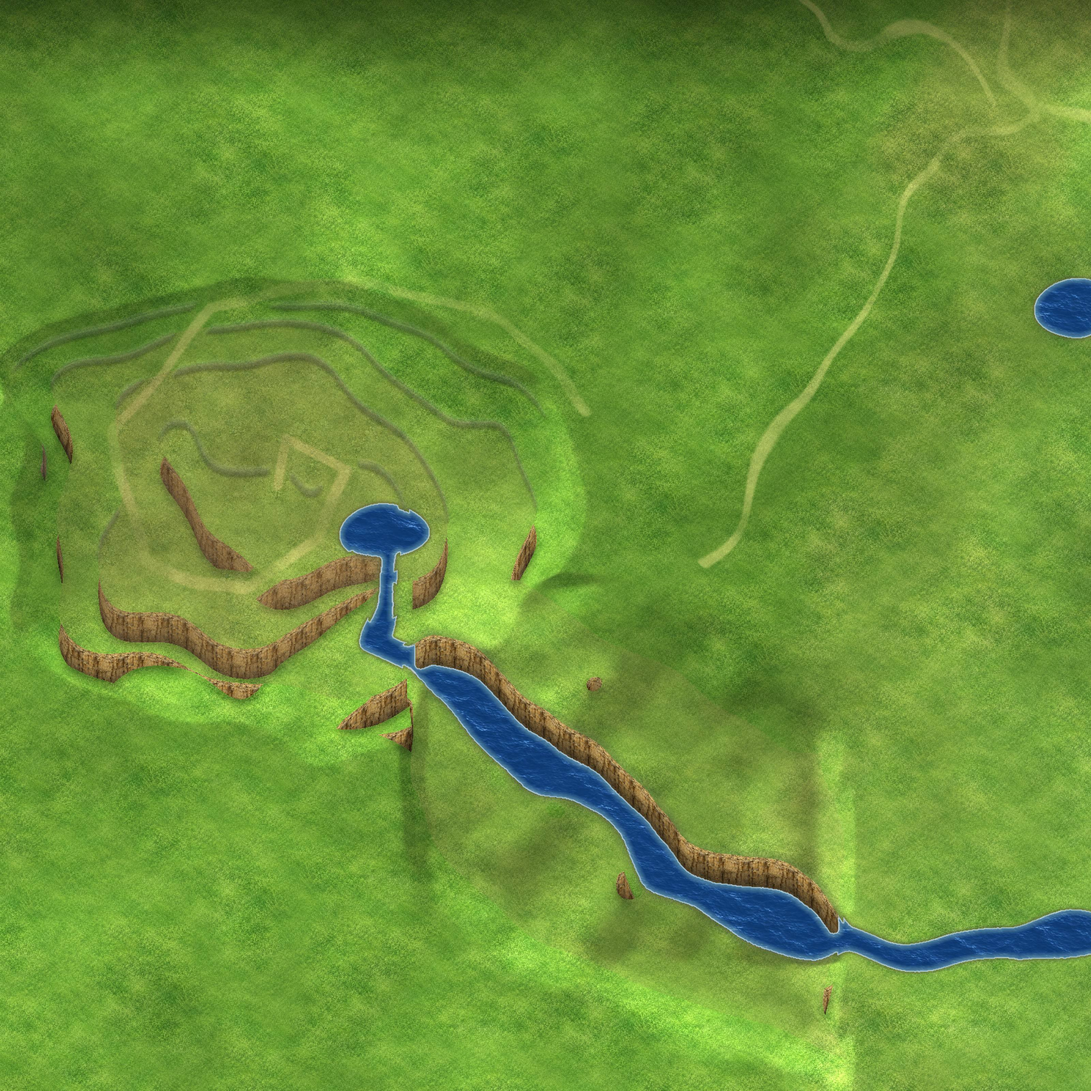
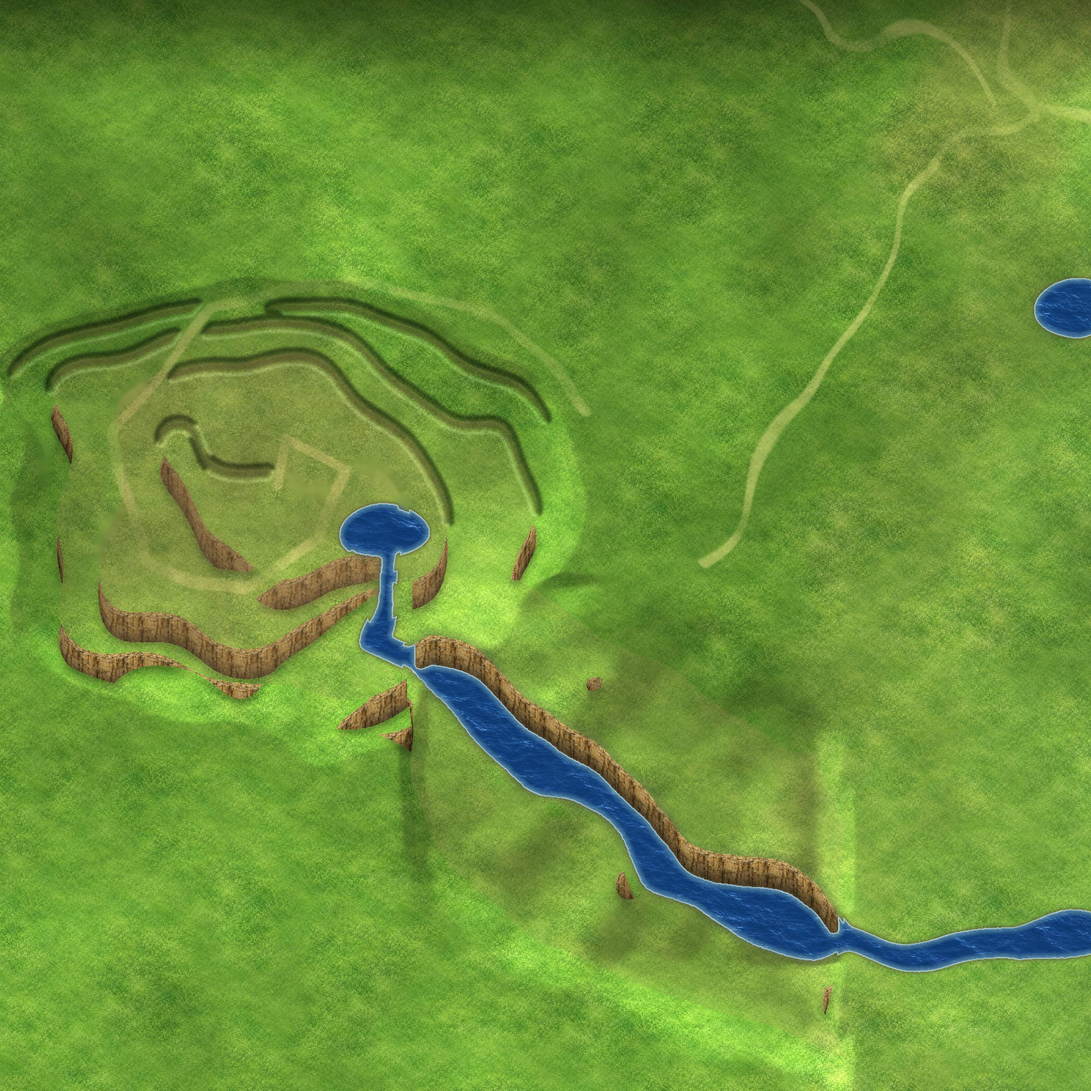
山：长台地边恢复挡路并画成明显的土坡（外侧阴影、上沿亮边），短台地线删除并抹掉
Claude-Session: https://claude.ai/code/session_011WrGna6yNwTfpmyp4CxMHs

diff --git a/tools/rebuild_nature.py b/tools/rebuild_nature.py
@@ -25,12 +25,29 @@ yy_,xx_=np.mgrid[0:H,0:W]
 mtr=rockc&(xx_<850)&(yy_<1100)&(yy_>300)
 mount=cv2.morphologyEx(dil(mtr,25).astype(np.uint8),cv2.MORPH_CLOSE,disk(60))
 inv=(1-mount).astype(np.uint8); cv2.floodFill(inv,None,(W-1,H-1),2); mount=(mount>0)|(inv==1)   # 西边的山（填满内部）
-back=np.zeros_like(rockc)                               # 山的背面：画面上没有崖壁的台地边 → 改成能走的缓坡
+back=np.zeros_like(rockc); ridge=np.zeros_like(rockc)                               # 山的背面：画面上没有崖壁的台地边 → 改成能走的缓坡
 n,lab,st,_=cv2.connectedComponentsWithStats(mtr.astype(np.uint8))
 for i in range(1,n):
     m=lab==i; px=g[m]
-    if (px[:,0]-px[:,1]).mean()<0: back|=m
-print('山背面台地边',back.sum())
+    if (px[:,0]-px[:,1]).mean()<0:
+        if st[i][2]>=150: ridge|=m            # 长的台地边：有高低差，挡路，画清楚
+        else: back|=m                         # 短的：删掉（可走，并抹掉地面上的线）
+print('删掉的短台地线',back.sum(),'保留的高低差',ridge.sum())
+# 抹掉短台地线：在高清底图上局部修补
+Gs=G.copy()
+n2,lab2,st2,_=cv2.connectedComponentsWithStats(back.astype(np.uint8))
+for i in range(1,n2):
+    x_,y_,w_,h_,_=st2[i]; pad=20; X0,Y0=max(0,x_-pad),max(0,y_-pad); X1,Y1=min(W,x_+w_+pad),min(H,y_+h_+pad)
+    mk=cv2.resize(dil(lab2[Y0:Y1,X0:X1]==i,7).astype(np.uint8),((X1-X0)*HD,(Y1-Y0)*HD),interpolation=cv2.INTER_NEAREST)
+    G[Y0*HD:Y1*HD,X0*HD:X1*HD]=cv2.inpaint(G[Y0*HD:Y1*HD,X0*HD:X1*HD],mk,9,cv2.INPAINT_TELEA)
+del Gs
+# 高低差：外侧（低处）一条阴影，内侧上沿亮边
+cx_,cy_=np.nonzero(mtr)[1].mean(),np.nonzero(mtr)[0].mean()
+rd=np.hypot(xx_-cx_,yy_-cy_).astype(np.float32)
+rdil=dil(ridge,8); rin=blur(ridge,1.5)
+rmean=cv2.blur((rd*ridge).astype(np.float32),(31,31))/np.maximum(cv2.blur(ridge.astype(np.float32),(31,31)),1e-3)
+ridge_lo=blur(rdil&~ridge&(rd>rmean),2.0); ridge_hi=blur(rdil&~ridge&(rd<rmean)&~dil(ridge,4),1.5)
+
 # ---------- 新水域 ----------
 watc=cv2.morphologyEx(wat0.astype(np.uint8),cv2.MORPH_CLOSE,disk(7)).astype(bool)   # 把桥面那条缝补上
 land_ok=(C0==0)&~dil(rockc,5)
@@ -63,6 +80,7 @@ print('过河点',len(fords))
 C=C0.copy(); C[watw]=1; C[ford]=2
 C[(C0==2)&~watw]=0
 C[back]=0
+C[ridge]=1
 Image.fromarray(np.dstack([C,np.zeros_like(C),np.zeros_like(C)])).save(MAP+'coll.png',optimize=True)
 # ---------- 画水 ----------
 S=900
@@ -100,7 +118,8 @@ for y0 in range(0,H*HD,BH):
     s=L(sd); k=L(nz)
     # 岸：湿泥一圈
     bank=np.clip(1+s/4,0,1)*(s<=0)*(1-L(seanear))
-    col=col*(1-0.35*L(backsh))+28*L(backrim)            # 背面台地：一条柔和阴影 + 上沿亮边
+    rf=L(rin); col=col*(1-rf)+(col*0.55+np.array([70,58,34],np.float32)*0.45)*rf     # 坡面：土色
+    col=col*(1-0.5*L(ridge_lo))+36*L(ridge_hi)
     gr_=np.random.default_rng(y0).random((h,Wd,1)).astype(np.float32)
     sc_=L(sand); wt_=L(wet)
     sandc=(np.array([222,204,158],np.float32)*(1-wt_)+np.array([168,148,108],np.float32)*wt_)*(0.93+0.12*gr_)
